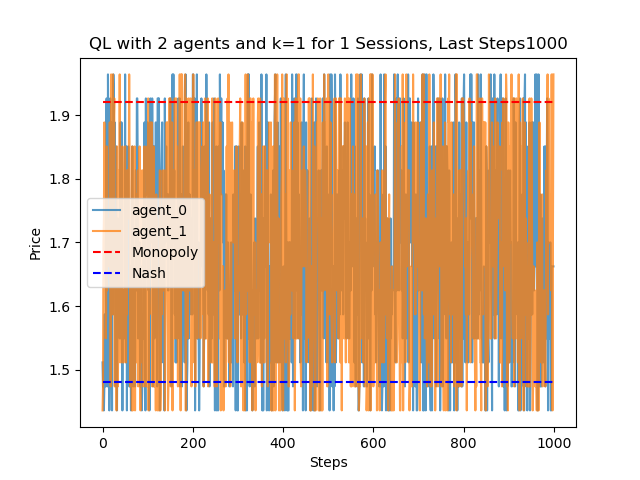
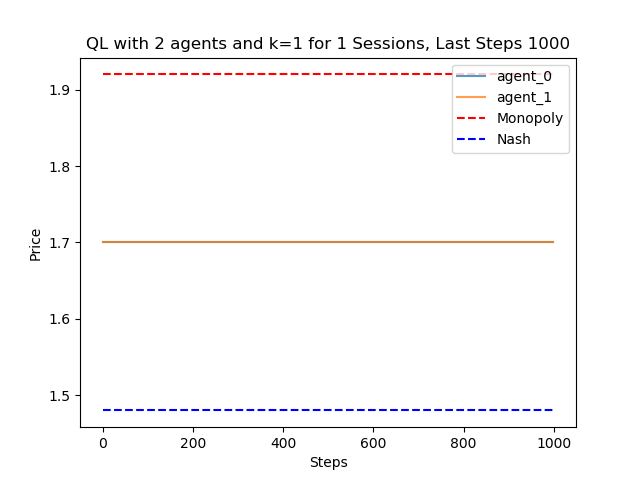
auto

diff --git a/gym_bertrandcompetition/envs/bertrand_competition_discrete.py b/gym_bertrandcompetition/envs/bertrand_competition_discrete.py
@@ -80,6 +80,7 @@ class BertrandCompetitionDiscreteEnv(MultiAgentEnv):
         self.max_steps = max_steps
         self.sessions = sessions
         self.convergence = convergence
+        self.convergence_counter = 0
         self.trainer_choice = trainer_choice
         self.players = [ 'agent_' + str(i) for i in range(num_agents)]
         self.action_history = {}
@@ -88,9 +89,7 @@ class BertrandCompetitionDiscreteEnv(MultiAgentEnv):
 
         for i in range(num_agents):
             if self.players[i] not in self.action_history:
-                self.action_history[self.players[i]] = []
-                for _ in range(convergence):
-                    self.action_history[self.players[i]].append(self.action_space.sample())
+                self.action_history[self.players[i]] = [self.action_space.sample()]
 
         self.reset()
 
@@ -125,8 +124,18 @@ class BertrandCompetitionDiscreteEnv(MultiAgentEnv):
             reward[i] = (self.prices[i] - self.c_i) * self.demand(self.a, self.prices, self.mu, i)
 
         reward = dict(zip(self.players, reward))
-        done = {'__all__': np.all(np.array(self.action_history[self.players[0]][-self.convergence:]) == self.action_history[self.players[0]][-1])
-                                   or self.current_step == self.max_steps}
+
+        if self.action_history[self.players[0]][-2] == self.action_history[self.players[0]][-1]:
+            self.convergence_counter += 1
+        else:
+            self.convergence_counter = 0
+            
+        if self.convergence_counter == self.convergence or self.current_step == self.max_steps:
+            done = {'__all__': True}
+        else:
+            done = {'__all__': False}
+        # done = {'__all__': np.all(np.array(self.action_history[self.players[0]][-self.convergence:]) == self.action_history[self.players[0]][-1])
+        #                            or self.current_step == self.max_steps}
         info = dict(zip(self.players, [{}]*self.num_agents))
 
         self.current_step += 1
@@ -191,7 +200,7 @@ class BertrandCompetitionDiscreteEnv(MultiAgentEnv):
         plt.plot(x, np.repeat(self.pN, last_n), 'b--', label='Nash')
         plt.xlabel('Steps')
         plt.ylabel('Price')
-        plt.title(self.trainer_choice + ' with ' + str(self.num_agents) + ' agents and k=' + str(self.k) + ' for ' + str(self.sessions) + ' Sessions, Last Steps' + str(last_n))
+        plt.title(self.trainer_choice + ' with ' + str(self.num_agents) + ' agents and k=' + str(self.k) + ' for ' + str(self.sessions) + ' Sessions, Last Steps ' + str(last_n))
         plt.legend()
         plt.savefig('./figures/' + self.savefile + title_str + '_last_steps_' + str(last_n))
         plt.clf()

diff --git a/gym_bertrand_test.py b/gym_bertrand_test.py
@@ -111,10 +111,10 @@ else:
     # Q-learning
 
     # Hyperparameters
-    alpha = 0.15
-    beta = 0.00001
+    alpha = 0.15 # Change these to test Calvano results
+    beta = 0.00001 # Change these to test Calvano results
     delta = 0.95
-    log_frequency = 10000
+    log_frequency = 50000
 
     q_learner = Q_Learner(env, num_agents=num_agents, m=m, alpha=alpha, beta=beta, delta=delta, sessions=sessions, log_frequency=log_frequency)
 
@@ -125,9 +125,9 @@ else:
     env.plot_last(last_n=100)
 
     observation = env.deviate(direction='down')
-    q_learner.eval(observation, n=10)
-    env.plot_last(last_n=20, title_str='_down_deviation')
+    q_learner.eval(observation, n=20)
+    env.plot_last(last_n=25, title_str='_down_deviation')
 
     observation = env.deviate(direction='up')
-    q_learner.eval(observation, n=10)
-    env.plot_last(last_n=20, title_str='_up_deviation')
+    q_learner.eval(observation, n=20)
+    env.plot_last(last_n=25, title_str='_up_deviation')
